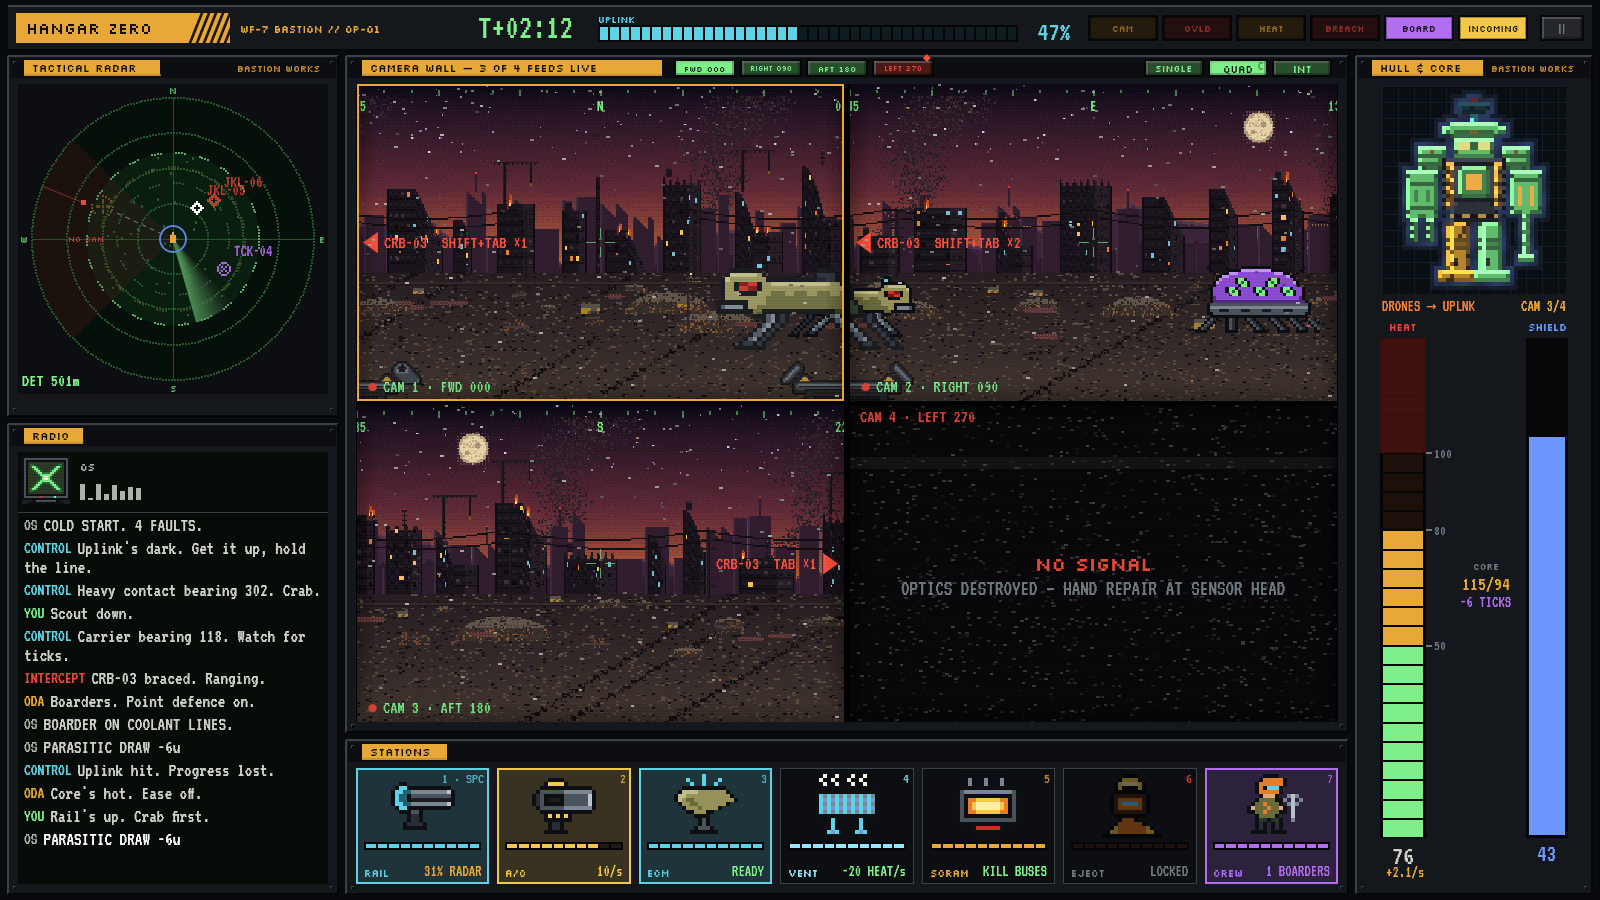
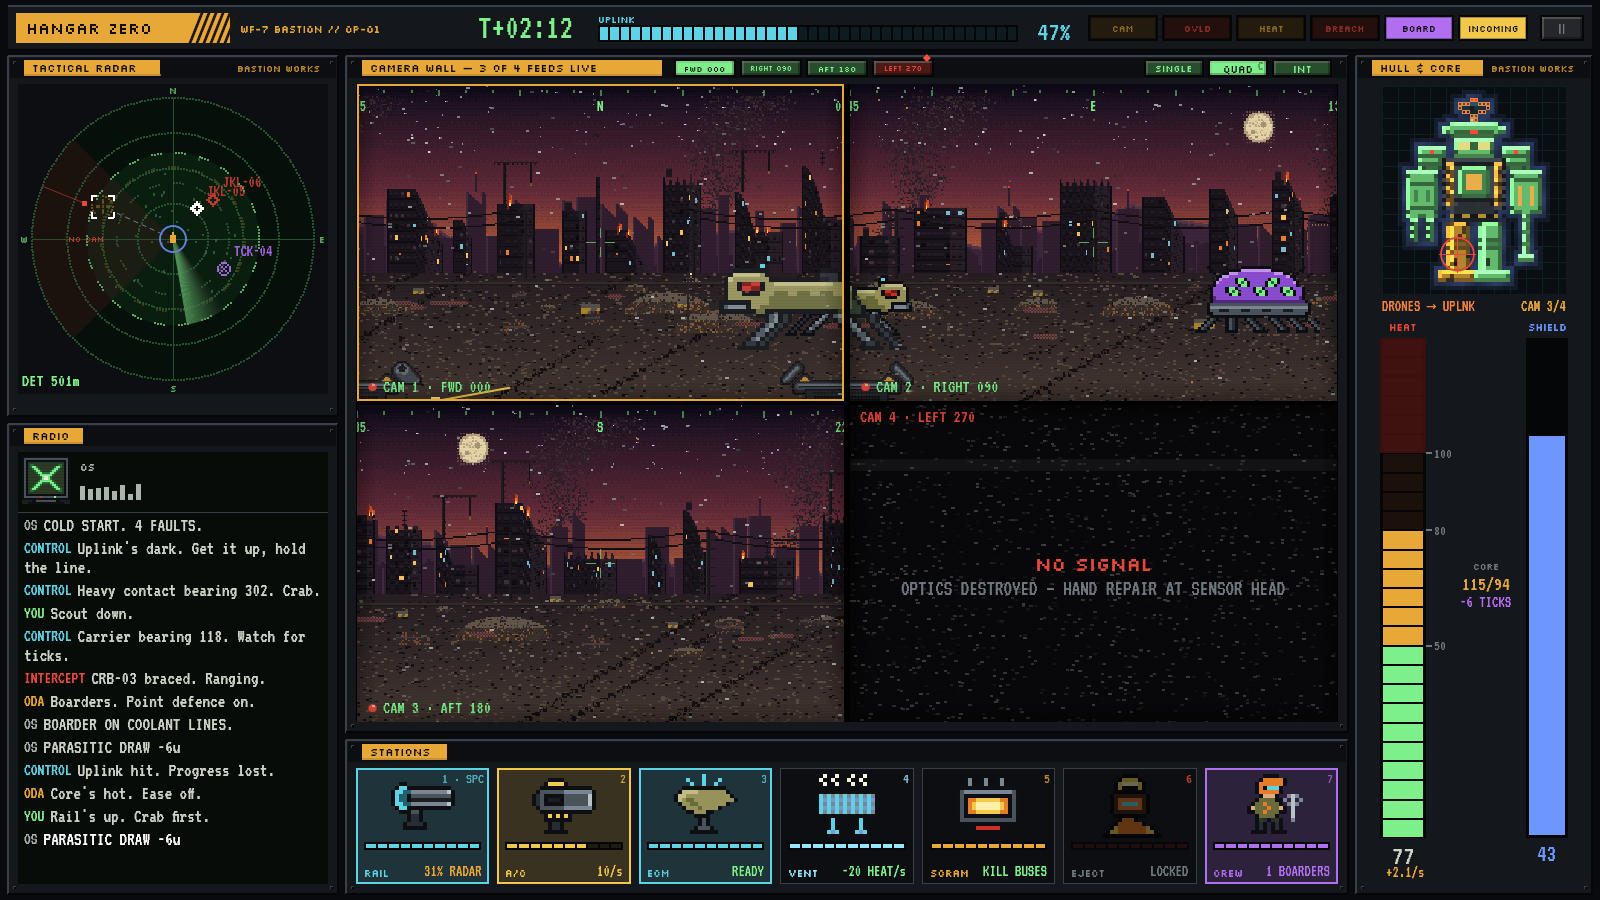
Off-camera arrow only in the single feed
Claude-Session: https://claude.ai/code/session_0185kqkbtDYzfnnQofExGTRs

diff --git a/src/ui/cockpit.rs b/src/ui/cockpit.rs
@@ -587,7 +587,7 @@ fn feed_panel(
             let cell = Rect::from_min_size(inner.min + Vec2::new(cx as f32 * (cw + gap), cy as f32 * (ch + gap)), Vec2::new(cw, ch));
             let fr = Rect::from_center_size(cell.center(), Vec2::new(FEED_W * scale, FEED_H * scale));
             let p = ui.painter_at(fr);
-            cam_view(&p, fr, scale, cam, art, mech, fx, campaign, scene);
+            cam_view(&p, fr, scale, cam, art, mech, fx, campaign, scene, false);
             scanlines(&p, fr, 24);
             vignette(&p, fr);
             if mech.active_cam == cam {
@@ -601,7 +601,7 @@ fn feed_panel(
         let scale = (inner.width() / FEED_W).min(inner.height() / FEED_H).max(1.0);
         let fr = Rect::from_center_size(inner.center(), Vec2::new(FEED_W * scale, FEED_H * scale));
         let p = ui.painter_at(fr);
-        cam_view(&p, fr, scale, mech.active_cam, art, mech, fx, campaign, scene);
+        cam_view(&p, fr, scale, mech.active_cam, art, mech, fx, campaign, scene, true);
         scanlines(&p, fr, 24);
         vignette(&p, fr);
     }
@@ -616,7 +616,7 @@ fn vignette(p: &egui::Painter, fr: Rect) {
 
 /// One fixed hull camera, looking down its quadrant.
 #[allow(clippy::too_many_arguments)]
-fn cam_view(p: &egui::Painter, fr: Rect, s: f32, cam: usize, art: &Art, mech: &Mech, fx: &Effects, campaign: &Campaign, scene: &Scene) {
+fn cam_view(p: &egui::Painter, fr: Rect, s: f32, cam: usize, art: &Art, mech: &Mech, fx: &Effects, campaign: &Campaign, scene: &Scene, single: bool) {
     let bearing = camera_bearing(cam);
     let fov = CAMERA_FOV;
     let px = |x: f32, y: f32| fr.min + Vec2::new(x * s, y * s);
@@ -812,8 +812,8 @@ fn cam_view(p: &egui::Painter, fr: Rect, s: f32, cam: usize, art: &Art, mech: &M
             text(p, px(x, tape_y + 5.0), Align2::CENTER_TOP, lbl, mono(16.0), GREEN);
         }
     }
-    // Off-camera target: an arrow on the edge it is nearest to, with how far to turn.
-    if let Some((_, e)) = mech.target.and_then(|t| scene.enemies.iter().find(|(en, _)| *en == t)) {
+    // Off-camera target (single view only): an arrow on the nearer edge, with how far to turn.
+    if let Some((_, e)) = mech.target.and_then(|t| scene.enemies.iter().find(|(en, _)| *en == t)).filter(|_| single) {
         let rel = angle_diff(e.est_angle, bearing);
         if rel.abs() >= fov * 0.6 {
             let right = rel > 0.0;
